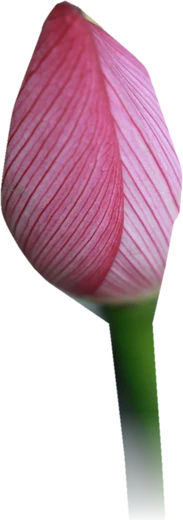
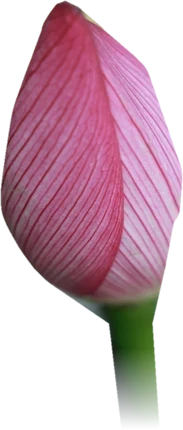
Unusual cycle card, Fix: no more calendar edit mode; a row of days opens in the card and she taps the day her period really started, the period moves there (her usual length, never past today). Today: the Sport tile is removed and its stardust video now plays on the Hormones tile. Lotus bud and foll

diff --git a/js/app.js b/js/app.js
@@ -3650,6 +3650,19 @@ function viewRelief(id) {
   </div>`;
 }
 // Flags cycles outside the usual 21–35 day range (or a too-short gap that is probably a mis-tap).
+// Fix: one row of days, she taps the day her period really started and the period moves there
+function flagPicker(a, b, key) {
+  const today = C.parseISO(todayISO()), from = C.addDays(a.start, 10), n = Math.min(45, C.diffDays(today, from) + 1);
+  const days = Array.from({ length: Math.max(1, n) }, (_, i) => C.addDays(from, i));
+  return `<div class="fl6-pick"><b>When did this period start?</b><small>Tap the first day of bleeding. We set the rest for you.</small>
+    <div class="fl6-days">${days.map(d => { const k = C.iso(d), on = k === key; return `<button class="fl6-day ${on ? 'on' : ''}" data-action="flagSet" data-k="${key}" data-d="${k}" aria-label="${fmt(d, { weekday: 'long', day: 'numeric', month: 'long' })}"><small>${fmt(d, { weekday: 'narrow' })}</small><b>${d.getDate()}</b>${d.getDate() === 1 || on ? `<em>${fmt(d, { month: 'short' })}</em>` : ''}</button>`; }).join('')}</div></div>`;
+}
+function flagRefresh() {
+  const old = document.querySelector('#view .fl6'); if (!old) return render();
+  const t = document.createElement('div'); t.innerHTML = cycleFlag(); const nu = t.firstElementChild;
+  nu ? old.replaceWith(nu) : old.remove();
+  const on = document.querySelector('#view .fl6-day.on'), row = on && on.parentElement; if (row) row.scrollLeft = on.offsetLeft - row.clientWidth / 2 + on.offsetWidth / 2;
+}
 function cycleFlag() {
   const ps = M.stats.periods; if (ps.length < 2) return '';
   const a = ps[ps.length - 2], b = ps[ps.length - 1], gap = C.diffDays(b.start, a.start);
@@ -3663,10 +3676,10 @@ function cycleFlag() {
   // compact heads-up: headline, one grey line, a slim 10 to 45 day line (usual 21 to 35 as a soft band), two small buttons
   const x = d => (Math.min(45, Math.max(10, d)) - 10) / 35 * 100;
   return `<section class="card flag fl6"><div class="fl6-h"><span class="fl6-ic">${icon('spark', 15)}</span><div><b>${head}</b><p>${sub}</p></div></div>
-    <div class="fl6-cmp" role="img" aria-label="This cycle ${gap} days, your usual ${avg} days, the healthy range is 21 to 35 days" >
+    ${ui.flFix === key ? flagPicker(a, b, key) : `<div class="fl6-cmp" role="img" aria-label="This cycle ${gap} days, your usual ${avg} days, the healthy range is 21 to 35 days" >
       ${[['This cycle', gap, 'me'], ['Your usual', avg, '']].map(([t, n, c]) => `<div class="fl6-row ${c}"><span>${t}</span><i class="fl6-bar"><i style="width:${(Math.min(n, 45) / 45 * 100).toFixed(1)}%"></i></i><b>${n}<small> d</small></b></div>`).join('')}
-      <small class="fl6-zl">Healthy range 21 to 35 days</small></div>
-    <div class="fl6-acts">${gap < 21 ? `<button class="fl2-b ${gap < 15 ? 'on' : ''}" data-action="flagEdit" data-date="${key}">${icon('calendar', 13)} Fix</button>` : ''}<button class="fl2-b ${gap < 15 ? '' : 'on'}" data-action="flagDismiss" data-k="${key}">${icon('check', 13)} It’s correct</button></div></section>`;
+      <small class="fl6-zl">Healthy range 21 to 35 days</small></div>`}
+    <div class="fl6-acts">${ui.flFix === key ? `<button class="fl2-b" data-action="flagEdit" data-date="">Cancel</button>` : gap < 21 ? `<button class="fl2-b ${gap < 15 ? 'on' : ''}" data-action="flagEdit" data-date="${key}">${icon('calendar', 13)} Fix</button>` : ''}${ui.flFix === key ? '' : `<button class="fl2-b ${gap < 15 ? '' : 'on'}" data-action="flagDismiss" data-k="${key}">${icon('check', 13)} It’s correct</button>`}</div></section>`;
 }
 
 // ---------- personal patterns (learned from logs) ----------
@@ -4478,10 +4491,9 @@ function todayTiles(info, only) {
   };
   if (only) return tipBody(only);
   return `<div class="dpt-grid">
-      ${tile('wide hero-move ph-vid', { to: 'move' }, `<video class="dpt-vid" src="images/move-stardust.mp4" poster="images/move-stardust.webp" muted loop playsinline preload="none" aria-hidden="true"></video><i></i>`, 'Sport', g.title, best.map(m => m.n).slice(0, 3).join(' · '))}
       ${rec ? tile(`t-tea t-cup t-dish${recD && recD.hero ? ' t-big' : ''}`, { to: `recipe/${rec.id}` }, recD ? `<span class="cup3d-w"><img class="dpt-cup" src="${recD.img}" alt="" loading="lazy"><canvas class="teacup3d" data-model="${recD.model}" data-elev="${recD.elev || 0.9}" data-fit="${recD.tileFit || recD.fit}"${recD.steam === 0 ? ' data-steam="0"' : ''} aria-label="${esc(rec.name)}, turning slowly"></canvas></span>` : `<span class="dish-ph"><img src="${photoUrl(rec.id, 400)}" alt="" loading="lazy"></span>`, 'Eat today', rec.name, `<span class="dpt-why">${recWhy(rec)}</span><span class="dpt-rule">${icon('clock', 12)} ${rec.time >= 60 ? `${Math.floor(rec.time / 60)} h${rec.time % 60 ? ` ${rec.time % 60}` : ''}` : `${rec.time} min`} · Cook it ${icon('chevR', 12)}</span>`) : tile('t-tea t-cup t-dish', { to: 'do/eat' }, `<span class="cup3d-w"><img class="dpt-cup" src="${D.img}" alt="" loading="lazy"><canvas class="teacup3d" data-model="${D.model}" data-elev="0.9" data-fit="${D.fit}" aria-label="${dish.t}, turning slowly"></canvas></span>`, 'Eat today', dish.t, `<span class="dpt-why">${dish.why}</span><span class="dpt-rule">${warm ? `${icon('thermo', 12)} Warm & cooked only` : `${icon('leaf', 12)} Fresh & raw welcome`}</span>`)}
       ${(() => { const D = dayMoments(info), h = nowH(), cur = momentAt(D, h); return tile('t-deep ph-full keep ph-fr ph-vid ph-sun', { to: 'rhythm' }, `<video class="dpt-vid" src="images/sun-moon.mp4" poster="images/sun-moon-poster.webp" muted loop playsinline preload="none" aria-hidden="true"></video><i></i>`, `<span class="dsun-badge">${icon('sun', 14, 2.2)}</span>Follow the sun`, (SUN_DO[cur.id] || SUN_DO.midday)[0], `Rise ${hLabel(D.rise)} · Set ${hLabel(D.set)}`); })()}
-      ${tile('t-sage ph-full ph-vid', { to: 'relief' }, `<video class="dpt-vid" src="images/relief-stardust.mp4" poster="images/relief-stardust.webp" muted loop playsinline preload="none" aria-hidden="true"></video><i></i>`, 'Hormones', 'Balance step by step', 'Start with the fundamentals')}
+      ${tile('t-sage ph-full ph-vid', { to: 'relief' }, `<video class="dpt-vid" src="images/move-stardust.mp4" poster="images/move-stardust.webp" muted loop playsinline preload="none" aria-hidden="true"></video><i></i>`, 'Hormones', 'Balance step by step', 'Start with the fundamentals')}
       ${tile(`calm lv${lvl} t-cort t-mol`, { to: 'breathe/stress' }, `<span class="cup3d-w"><img class="dpt-cup" src="images/cortisol-mol.webp" alt="" loading="lazy"><canvas class="teacup3d" data-model="models/cortisol.glb" data-elev="0.3" data-fit="1.9" data-steam="0" data-shadow="0" aria-label="The cortisol molecule, turning slowly"></canvas></span>`, 'Cortisol', `${['', 'Low', 'Rising', 'High'][lvl]}<span class="cv-lv" aria-hidden="true">${[1, 2, 3].map(i => `<i class="${i <= lvl ? 'on' : ''}"></i>`).join('')}</span>`, `${['', 'Calm and settled', 'Building up', 'Full, let it out'][lvl]}<span class="dpt-go">${icon('leaf', 13)} Breathe now</span>`)}
       ${tile('t-tea t-cup', { to: 'do/tea' }, `<span class="cup3d-w"><img class="dpt-cup" src="${teaCupImg(td[1])}" alt="" loading="lazy"><canvas class="teacup3d"${teaCupAttr(td[1])} aria-label="${td[1]}, turning slowly"></canvas></span>`, 'Tea for today', td[1], td[2])}
       ${tile('t-glow ph-full ph-vid ph-tree', { to: 'ground' }, `<img class="dpt-vid" src="images/ground-tree.webp" alt="" loading="lazy" decoding="async"><i></i>`, 'Ground', GROUND_PHASE[ph].t, '')}
@@ -8176,8 +8188,13 @@ const actions = {
   remPermission: async () => { try { await Notification.requestPermission(); } catch { /* unsupported */ } render(); fireNotifications(); },
   flagDismiss: d => { state.flagDismissed = d.k; save(); render(); },
   // straight into the calendar, already in "edit period days" mode, scrolled to the grid
-  flagEdit: d => { ui.calSelected = d.date; const x = C.parseISO(d.date); ui.calMonth = C.iso(new Date(x.getFullYear(), x.getMonth(), 1)); ui.calEdit = true; ui.calFix = d.date; go('calendar');
-    setTimeout(() => { const c = document.querySelector('.cal2'); if (c) c.scrollIntoView({ behavior: matchMedia('(prefers-reduced-motion: reduce)').matches ? 'auto' : 'smooth', block: 'center' }); }, 120); },
+  flagEdit: d => { ui.flFix = d.date || null; flagRefresh(); },
+  flagSet: d => {
+    const p = M.stats.periods.find(x => C.iso(x.start) === d.k), P = M.stats.avgPeriod || 5, today = todayISO();
+    if (p) for (let x = new Date(p.start); x <= p.end; x = C.addDays(x, 1)) { const k = C.iso(x); if (PERIOD_FLOWS.includes(getLog(k).flow)) setLog(k, { flow: null }); }
+    for (let i = 0; i < P; i++) { const k = C.iso(C.addDays(C.parseISO(d.d), i)); if (k > today) break; setLog(k, { flow: 'medium' }); }
+    ui.flFix = null; toast(`Period now starts ${fmt(C.parseISO(d.d), { day: 'numeric', month: 'long' })}`); render();
+  },
   lemonStart: () => { state.lemon = { start: todayISO(), done: {} }; save(); toast('Your 28 days begin'); render(); },
   lemonTick: () => { const L = state.lemon; if (!L) return; L.done = L.done || {}; const k = todayISO(); L.done[k] ? delete L.done[k] : (L.done[k] = 1); save(); render(); },
   focusTick: d => { const k = todayISO(), f = state.focusDone = state.focusDone || {}; const a = f[k] = f[k] || []; const i = +d.i; a.includes(i) ? a.splice(a.indexOf(i), 1) : a.push(i); for (const x in f) if (x !== k) delete f[x]; save(); render(); },

diff --git a/sw.js b/sw.js
@@ -1,5 +1,5 @@
 // Offline cache for the app shell. Bump VERSION when shipping changes.
-const VERSION = 'uts-v904';
+const VERSION = 'uts-v906';
 const SHELL = ['./', './index.html', './styles.css', './manifest.json', './icons/icon-192.png', './icons/icon-512.png', './icons/apple-touch-icon.png', './icons/icon-64.png', './icons/icon-32.png', './icons/icon-maskable-512.png',
   './js/app.js', './js/data.js', './js/cycle.js', './js/icons.js', './js/cosmic.js', './js/astro.js', './js/moonguide.js', './js/moon3d.js', './js/figure.js', './js/figure3d.js', './js/torso.js', './js/torso3d.js', './js/photos.js', './js/seasonal.js', './js/world.js', './js/ground.js', './js/athlete.js', './js/bodymap.js', './js/molecules.js', './js/welcome3d.js', './js/teacup3d.js', './js/sfx.js', './js/sun.js', './js/account.js', './js/config.js', './images/planet.jpg', './images/gate-rose.webp', './images/lotus-menstrual.webp', './images/lotus-follicular.webp', './images/lotus-ovulatory.webp', './images/lotus-luteal.webp', './images/period.png', './images/partner-cinema.webp', './images/partner-hands.jpg', './images/ground-roots.jpg', './images/pixel-aura-0.png', './images/pixel-aura-1.png', './images/pixel-aura-2.png', './images/pixel-aura-3.png', './images/sun-moon.webp', './images/sun-moon.mp4', './images/tea-ginger.webp', './images/sun-moon-poster.webp', './images/rhythm-sun.webp', './images/move-stardust.mp4', './images/move-stardust.webp', './images/move-meditate.webp', './images/move-walk.webp', './images/move-yoga.webp', './images/move-sport.webp', './images/move-pilates.webp', './images/move-hiit.webp', './images/move-lift.webp', './images/season-veg.webp', './images/season-fruit.webp', './images/stress-meditate.mp4', './images/stress-meditate.webp', './images/stress-breathe.mp4', './images/stress-breathe.webp', './images/forest-path.jpg', './images/welcome-forest.jpg', './images/intro-forest.jpg', './images/forest-calm.jpg', './images/tile-meditate.webp', './images/tile-ground.webp', './images/tile-walk.webp', './images/tile-yoga.webp', './images/tile-sport.webp', './images/tile-pilates.webp', './images/tile-hiit.webp', './images/tile-lift.webp', './images/purpose-body.jpg', './images/purpose-conceive.jpg', './images/period-food.webp', './images/plate.webp', './images/read-lilies.webp', './images/read-seasons.webp', './models/body2.glb', './models/teacup.glb', './models/matcha.glb', './models/greentea.glb', './images/cup-matcha.webp', './models/soup.glb', './images/dish-soup.webp', './models/pho.glb', './images/dish-pho.webp', './models/miso.glb', './images/dish-miso.webp', './models/stew.glb', './images/dish-stew.webp', './models/veg-plate.glb', './models/salad-a.glb', './images/dish-salad-a.webp', './models/salad-b.glb', './images/dish-salad-b.webp', './images/dish-veg.webp', './models/taco.glb', './images/dish-taco.webp', './models/cortisol.glb', './images/cortisol-mol.webp', './models/moon.glb', './images/cup-chai.webp', './images/cup-glass.webp', './sounds/forest-stream.m4a'];
 

diff --git a/styles.css b/styles.css
@@ -11361,7 +11361,7 @@ html .gro2 { display: flex; align-items: center; gap: 14px; width: 100%; margin-
 .gro2-go { flex: none; width: 34px; height: 34px; border-radius: 50%; display: grid; place-items: center; background: #20301a; color: #fff; }
 .gro2-t small { white-space: nowrap; overflow: hidden; text-overflow: ellipsis; }
 /* v902 Today bubble: the bud and the opening lotus now carry their stems, which grow up from the bottom of the bubble */
-html .hub .bubble.menstrual img, html .hub .bubble.follicular img { top: auto !important; bottom: -3% !important; height: 98% !important; width: 80% !important; object-fit: contain; object-position: 50% 100%; transform: none !important; }
+html .hub .bubble.menstrual img, html .hub .bubble.follicular img { top: 50% !important; height: 82% !important; width: 82% !important; object-fit: contain; object-position: 50% 50%; transform: translateY(-50%) !important; }
 html .hub .bubble.ovulatory img { width: 84% !important; height: 84% !important; }
 
 /* v902 unusual cycle card: two bars to compare (this cycle vs your usual) over the shaded healthy range */
@@ -11381,3 +11381,15 @@ html .fl6-cmp { display: grid; grid-template-columns: 74px 1fr 46px; column-gap:
 /* v902 habits ring: number centred, '/6' as a small line under it */
 html .hh2-n { display: flex; flex-direction: column; align-items: center; justify-content: center; gap: 2px; line-height: 1; }
 html .hh2-n small { margin: 0; font: 500 10.5px/1 var(--font); color: rgba(32,48,26,.6); }
+
+/* v905 unusual cycle card, Fix: one scrolling row of days, tap the real first day */
+.fl6-pick b { display: block; font-size: 15px; font-weight: 600; color: #20301a; }
+.fl6-pick > small { display: block; margin-top: 2px; font-size: 12.5px; color: #5d6853; }
+.fl6-days { display: flex; gap: 6px; overflow-x: auto; margin: 10px -16px 0; padding: 4px 16px 6px; scrollbar-width: none; scroll-snap-type: x proximity; }
+.fl6-days::-webkit-scrollbar { display: none; }
+.fl6-day { flex: none; width: 44px; padding: 8px 0 7px; border-radius: 16px; border: 1px solid rgba(48,64,35,.12); background: #fff; display: grid; justify-items: center; gap: 3px; font: inherit; color: #20301a; cursor: pointer; scroll-snap-align: center; position: relative; }
+.fl6-day small { font-size: 11px; color: #5d6853; }
+.fl6-day b { font: 700 16px/1 var(--dot); }
+.fl6-day em { position: absolute; top: -7px; left: 50%; transform: translateX(-50%); font: 600 9.5px/1 var(--font); font-style: normal; color: #b04a64; background: #fff; padding: 1px 4px; border-radius: 6px; }
+.fl6-day.on { background: #b04a64; border-color: #b04a64; color: #fff; }
+.fl6-day.on small { color: rgba(255,255,255,.85); }
